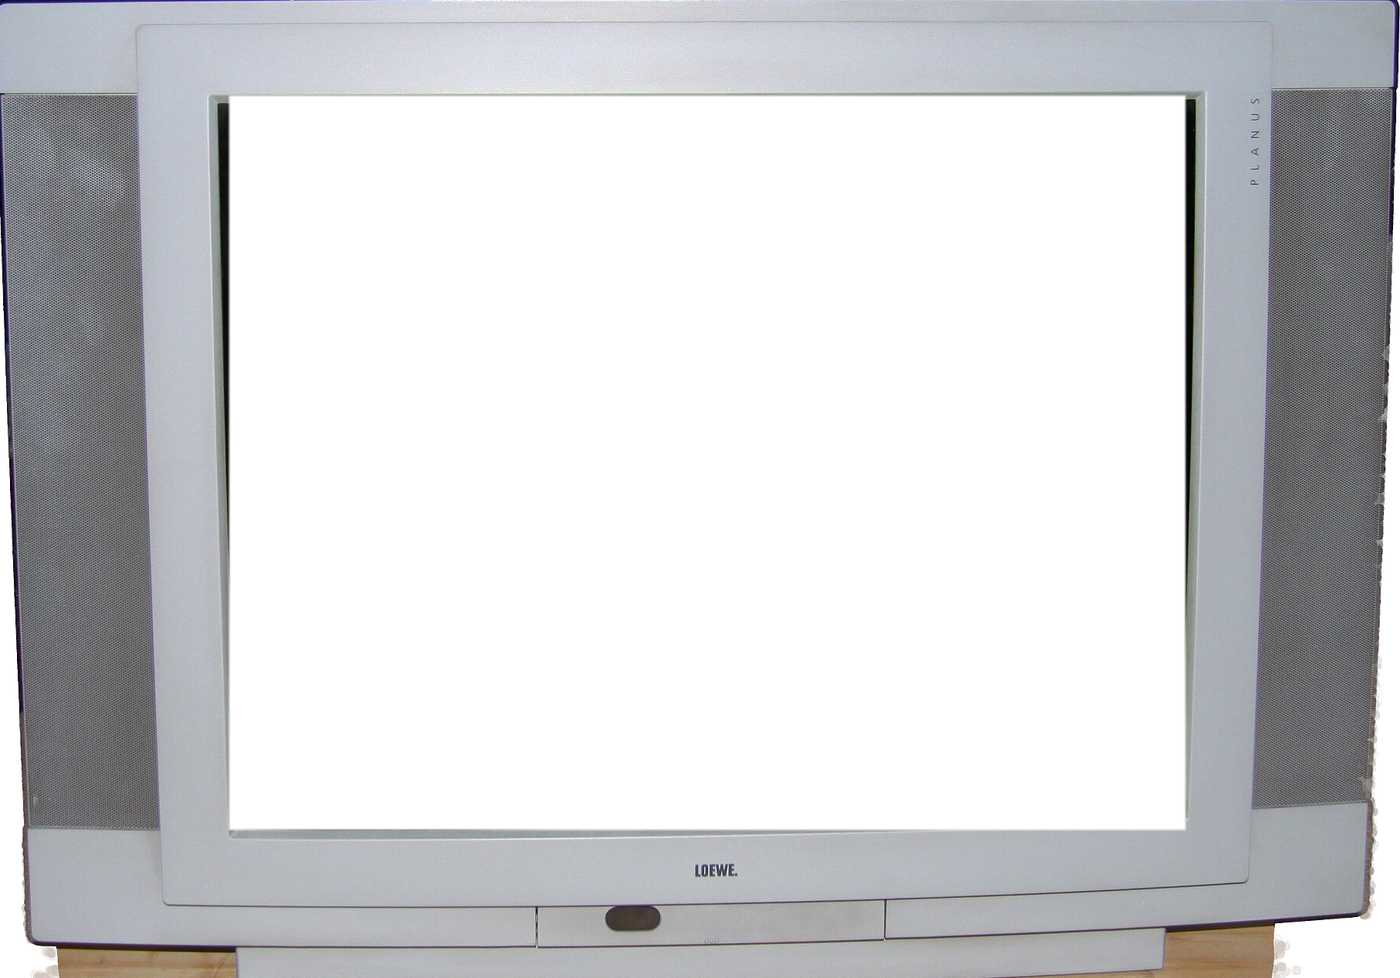
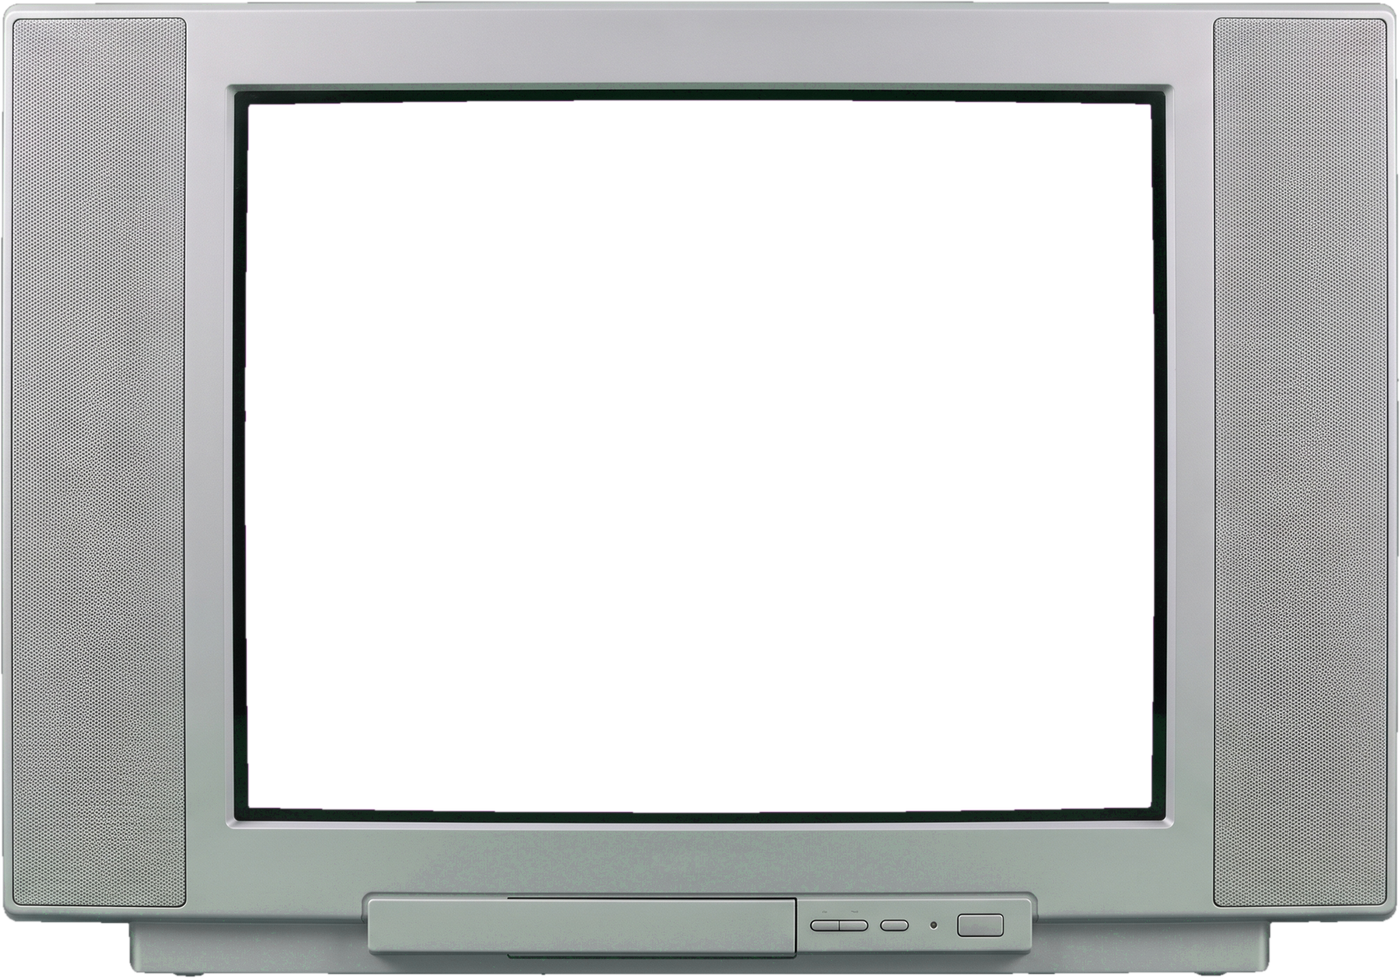
Generated TV set frames with automatic keying, auto-match-by-decade mode
Replace the Wikimedia Commons cut-outs with six Gemini-generated sets
(green backdrop, magenta screen). frames/build_frames.py keys the backdrop
by measured hue, finds the screen, suppresses green spill, and writes
frames.json. Set picker gains an Auto mode that follows the tuned
channel's decade; default stays the classic CSS cabinet. Tall sets are
capped to the viewport height.

diff --git a/app.js b/app.js
@@ -197,6 +197,7 @@
     const ch = channels[chIndex];
     try { localStorage.setItem("retrotv.channel", String(ch.number)); } catch (e) {}
     showOsd(String(ch.number).padStart(2, "0"));
+    if (frameMode === "auto" && frames.length) showFrame(frameForChannel(ch));
     if (!opts.silent) showStatic(STATIC_MS);
     sync();
     renderGuideCurrent();
@@ -303,27 +304,49 @@
   /* ---------- TV set frames ---------- */
   let frames = [];
   const tvEl = $("tv"), stage = $("stage"), bezel = $("bezel"), frameImg = $("frameImg"), frameSel = $("frameSel"), frameCredit = $("frameCredit");
+  let frameMode = "classic";   // "auto" follows the channel's decade; otherwise a fixed frame id
+  function decadeOf(ch) {
+    // era strings look like "1950s", "1990s-2000s", "1971-2008": take the first year
+    const m = /(\d{4})/.exec(ch.era || "");
+    return m ? Math.floor(Number(m[1]) / 10) * 10 + "s" : null;
+  }
+  function frameForChannel(ch) {
+    const d = ch && decadeOf(ch);
+    if (d && frames.some((f) => f.id === d)) return d;
+    return "2000s";                             // sensible default for anything undated
+  }
   function applyFrame(id) {
-    const f = frames.find((x) => x.id === id);
+    if (id === "auto") {
+      frameMode = "auto";
+      try { localStorage.setItem("retrotv.frame", "auto"); } catch (e) {}
+      frameSel.value = "auto";
+      showFrame(channels.length ? frameForChannel(channels[chIndex]) : "classic");
+      return;
+    }
+    frameMode = id;
     try { localStorage.setItem("retrotv.frame", id); } catch (e) {}
-    frameSel.value = f ? id : "classic";
+    frameSel.value = frames.some((x) => x.id === id) ? id : "classic";
+    showFrame(id);
+  }
+  function showFrame(id) {
+    const f = frames.find((x) => x.id === id);
     if (!f) {
       tvEl.classList.remove("photo"); frameImg.hidden = true; frameImg.removeAttribute("src");
-      stage.style.aspectRatio = ""; bezel.style.cssText = ""; frameCredit.textContent = "";
+      stage.style.cssText = ""; bezel.style.cssText = ""; frameCredit.textContent = "";
       return;
     }
     tvEl.classList.add("photo");
     stage.style.aspectRatio = String(f.aspect);
+    stage.style.maxWidth = `calc(86vh * ${f.aspect})`;   // tall sets (antennas, pedestals) stay on screen
+    stage.style.margin = "0 auto";
     const o = 0.6; // overscan so the picture tucks under the bezel's rounded corners
     const sc = f.screen;
     bezel.style.cssText = `left:${sc.left - o}%;top:${sc.top - o}%;width:${sc.width + 2 * o}%;height:${sc.height + 2 * o}%;`;
     frameImg.src = f.src; frameImg.hidden = false;
-    const c = f.credit;
-    frameCredit.innerHTML = ` TV set: <a href="${esc(c.url)}" target="_blank" rel="noopener">${esc(c.title)}</a> by ${esc(c.artist)}` +
-      (c.license_url ? `, <a href="${esc(c.license_url)}" target="_blank" rel="noopener">${esc(c.license)}</a>` : `, ${esc(c.license)}`) + ", via Wikimedia Commons.";
+    frameCredit.textContent = " TV set image generated with Gemini.";
   }
   function cycleFrame(dir = 1) {
-    const ids = ["classic", ...frames.map((f) => f.id)];
+    const ids = ["auto", "classic", ...frames.map((f) => f.id)];
     const i = ids.indexOf(frameSel.value);
     applyFrame(ids[(i + dir + ids.length) % ids.length]);
   }

diff --git a/index.html b/index.html
@@ -40,7 +40,7 @@
         <button data-act="mute" id="muteBtn" title="Mute">MUTE</button>
         <button data-act="guide" title="Channel guide">GUIDE</button>
         <button data-act="full" title="Fullscreen">FULL</button>
-        <select id="frameSel" title="TV set style (T to cycle)" aria-label="TV set style"><option value="classic">Classic cabinet</option></select>
+        <select id="frameSel" title="TV set style (T to cycle)" aria-label="TV set style"><option value="auto">Auto (match channel)</option><option value="classic">Classic cabinet</option></select>
         <button data-act="power" title="Power" class="power">⏻</button>
       </div>
     </div>

diff --git a/frames/build_frames.py b/frames/build_frames.py
@@ -1,0 +1,153 @@
+#!/usr/bin/env python3
+"""Turn generated TV images (solid green background, solid magenta screen) into
+frame PNGs with a transparent screen, and write frames.json.
+
+Put images in frames/src/ named <id>.png|jpg|jpeg (e.g. 1950s.jpeg), then
+run:  python3 frames/build_frames.py
+"""
+import glob, json, os, re
+from collections import deque
+from PIL import Image, ImageFilter, ImageChops
+
+HERE = os.path.dirname(os.path.abspath(__file__))
+NAMES = {"1950s": "1950s console", "1960s": "1960s wood console", "1970s": "1970s space-age portable",
+         "1980s": "1980s tabletop", "1990s": "1990s CRT", "2000s": "2000s flat CRT"}
+MAX_W = 1400
+# Minimum saturation for spill suppression. Low by default so faint green casts on
+# grey/cream/silver cabinets get neutralised; higher where the set really is green.
+SPILL_SAT = {"1950s": 0.24}   # sage Predicta housing
+
+def hsv(R, G, B):
+    mx = max(R, G, B); mn = min(R, G, B); c = mx - mn
+    if c == 0: return 0.0, 0.0
+    if mx == G: hue = 60 * ((B - R) / c) + 120
+    elif mx == R: hue = (60 * ((G - B) / c)) % 360
+    else: hue = 60 * ((R - G) / c) + 240
+    return hue, c / mx
+
+def backdrop_hue(im):
+    """Median hue of the saturated pixels in a ring just inside the border.
+    Gemini's green renders anywhere from hue 120 to 132 depending on the image."""
+    im = im.convert("RGB"); W, H = im.size; px = im.load(); hues = []
+    ring = [(x, y) for x in range(4, W - 4, 3) for y in (4, H - 5)] + [(x, y) for y in range(4, H - 4, 3) for x in (4, W - 5)]
+    for x, y in ring:
+        h, sat = hsv(*px[x, y])
+        if sat > 0.4 and 90 <= h <= 160: hues.append(h)
+    hues.sort()
+    return hues[len(hues) // 2] if hues else 125.0
+
+def classify(im):
+    """Return (green_mask, magenta_mask) as 'L' images from HSV-ish rules that
+    survive JPEG artifacts."""
+    im = im.convert("RGB")
+    r, g, b = [ch.point(lambda v: v) for ch in im.split()]
+    px = im.load(); W, H = im.size
+    green = Image.new("L", im.size, 0); mag = Image.new("L", im.size, 0)
+    gp, mp = green.load(), mag.load()
+    bg = backdrop_hue(im); lo, hi = bg - 8, bg + 8
+    for y in range(H):
+        for x in range(W):
+            R, G, B = px[x, y]
+            hue, sat = hsv(R, G, B)
+            # Backdrop: within 8 degrees of the measured border hue at any brightness
+            # (vignetted corners, shadow pockets). Green reflections on the set drift
+            # toward yellow-green, so they survive and get spill-suppressed instead.
+            if lo <= hue <= hi and sat > 0.45 and G > 60:
+                gp[x, y] = 255
+            elif 285 <= hue <= 315 and sat > 0.6 and R > 120 and B > 120:
+                mp[x, y] = 255
+    return green, mag
+
+def flood_from_border(mask):
+    """Keep only the mask pixels connected to the image border."""
+    W, H = mask.size; m = mask.load()
+    out = Image.new("L", mask.size, 0); o = out.load()
+    seen = bytearray(W * H); q = deque()
+    for x in range(W):
+        for y in (0, H - 1):
+            if m[x, y] and not seen[y * W + x]: seen[y * W + x] = 1; q.append((x, y))
+    for y in range(H):
+        for x in (0, W - 1):
+            if m[x, y] and not seen[y * W + x]: seen[y * W + x] = 1; q.append((x, y))
+    while q:
+        x, y = q.popleft(); o[x, y] = 255
+        for nx, ny in ((x + 1, y), (x - 1, y), (x, y + 1), (x, y - 1)):
+            if 0 <= nx < W and 0 <= ny < H and m[nx, ny] and not seen[ny * W + nx]:
+                seen[ny * W + nx] = 1; q.append((nx, ny))
+    return out
+
+def largest_component_bbox(mask):
+    W, H = mask.size; m = mask.load(); seen = bytearray(W * H); best = None
+    for sy in range(0, H, 4):
+        for sx in range(0, W, 4):
+            if m[sx, sy] and not seen[sy * W + sx]:
+                q = deque([(sx, sy)]); seen[sy * W + sx] = 1; n = 0
+                x0 = x1 = sx; y0 = y1 = sy
+                while q:
+                    x, y = q.popleft(); n += 1
+                    x0, x1, y0, y1 = min(x0, x), max(x1, x), min(y0, y), max(y1, y)
+                    for nx, ny in ((x + 1, y), (x - 1, y), (x, y + 1), (x, y - 1)):
+                        if 0 <= nx < W and 0 <= ny < H and m[nx, ny] and not seen[ny * W + nx]:
+                            seen[ny * W + nx] = 1; q.append((nx, ny))
+                if best is None or n > best[0]: best = (n, x0, y0, x1, y1)
+    return best[1:] if best else None
+
+def build(path):
+    fid = re.sub(r"\.(png|jpe?g)$", "", os.path.basename(path), flags=re.I)
+    im = Image.open(path).convert("RGBA")
+    if im.width > 2400: im = im.resize((2400, int(im.height * 2400 / im.width)), Image.LANCZOS)
+    green, mag = classify(im)
+    print(f"{os.path.basename(path)}: backdrop hue {backdrop_hue(im):.0f}")
+    # No border flood-fill: pockets of background enclosed by the set (under a
+    # swivel tube, between legs) must go too. The prompt forbids green paint on the set.
+    # clean up JPEG fringe: small close/open, then feather
+    green = green.filter(ImageFilter.MaxFilter(3)).filter(ImageFilter.MinFilter(3))
+    mag = mag.filter(ImageFilter.MinFilter(3)).filter(ImageFilter.MaxFilter(5))   # grow 1px into the bezel so no magenta halo
+    bbox = largest_component_bbox(mag)
+    if not bbox: raise SystemExit(f"{path}: no magenta screen found")
+    alpha = ImageChops.subtract(Image.new("L", im.size, 255), ImageChops.lighter(green, mag))
+    # close thin keyed gaps (a glossy stem top reflecting pure backdrop green)
+    alpha = alpha.filter(ImageFilter.MaxFilter(11)).filter(ImageFilter.MinFilter(11))
+    alpha = alpha.filter(ImageFilter.GaussianBlur(0.8))
+    # spill suppression: any opaque pixel tinted toward the backdrop hue (glossy
+    # stems, cabinet tops reflecting the green) gets its green clamped. The sets
+    # themselves carry no green within 20 degrees of the backdrop hue.
+    bg = backdrop_hue(im); px = im.load(); ap = alpha.load()
+    W, H = im.size
+    sat_gate = SPILL_SAT.get(fid, 0.08)
+    for y in range(H):
+        for x in range(W):
+            if not ap[x, y]: continue
+            R, G, B, A = px[x, y]
+            m = max(R, B)
+            if G > m:
+                hue, sat = hsv(R, G, B)
+                # reflections drift toward yellow-green as they mix with cream/tan
+                # surfaces, so the window is wider on that side; the saturation gate
+                # keeps a set's own muted green paint (sage, olive) untouched.
+                if bg - 38 <= hue <= bg + 22 and sat > sat_gate:
+                    px[x, y] = (R, m, B, A)
+    im.putalpha(alpha)
+    # trim transparent margins (but keep the bottom edge if the set runs off the image)
+    trim = im.getbbox()
+    im = im.crop(trim)
+    bx0, by0, bx1, by1 = bbox[0] - trim[0], bbox[1] - trim[1], bbox[2] - trim[0], bbox[3] - trim[1]
+    W, H = im.size
+    if W > MAX_W: im = im.resize((MAX_W, int(H * MAX_W / W)), Image.LANCZOS)
+    out = os.path.join(HERE, fid + ".png")
+    im.save(out, optimize=True)
+    screen = {"left": round(bx0 / W * 100, 2), "top": round(by0 / H * 100, 2),
+              "width": round((bx1 - bx0) / W * 100, 2), "height": round((by1 - by0) / H * 100, 2)}
+    print(f"{fid}: {im.size} screen {screen} ({(bx1-bx0)/(by1-by0):.2f}:1)")
+    return {"id": fid, "name": NAMES.get(fid, fid), "src": f"frames/{fid}.png", "aspect": round(W / H, 4),
+            "screen": screen, "credit": "Generated with Gemini"}
+
+generated = {}
+for p in sorted(glob.glob(os.path.join(HERE, "src", "*"))):
+    if re.search(r"\.(png|jpe?g)$", p, re.I):
+        f = build(p); generated[f["id"]] = f
+order = ["1950s", "1960s", "1970s", "1980s", "1990s", "2000s"]
+ids = order + [i for i in generated if i not in order]
+frames = [generated[i] for i in ids if i in generated]
+json.dump(frames, open(os.path.join(HERE, "frames.json"), "w"), indent=1)
+print("frames.json:", [f["id"] for f in frames])

diff --git a/README.md b/README.md
@@ -51,12 +51,16 @@ derivatives, skipping HEVC originals), and writes `channels.json`.
 ## TV sets
 
 The picker in the control panel (or the T key) swaps the CSS cabinet for a
-real television cut out of a freely licensed Wikimedia Commons photo, one per
-decade from the 1950s to the 2000s. `frames/frames.json` lists each set's
-image, aspect ratio, screen rectangle (percent of the image) and photo
-credit; the credit is shown in the page footer as the licenses require.
-`?tv=1980s` deep-links a set. To add one, cut a transparent hole where the
-screen is, drop the PNG in `frames/`, and add an entry.
+television set image, one per decade from the 1950s to the 2000s. "Auto"
+switches the set to match the decade of whatever channel is tuned. The
+default is the classic CSS cabinet. `?tv=1980s` deep-links a set.
+
+The set images were generated with Gemini against a green backdrop with a
+flat magenta screen (see the prompts in the project history). To add or
+replace one, drop the image in `frames/src/<id>.jpeg` and run
+`python3 frames/build_frames.py`: it keys the backdrop, finds the screen,
+cuts a transparent hole, and rewrites `frames/frames.json` with each set's
+aspect ratio and screen rectangle.
 
 ## Controls
 
